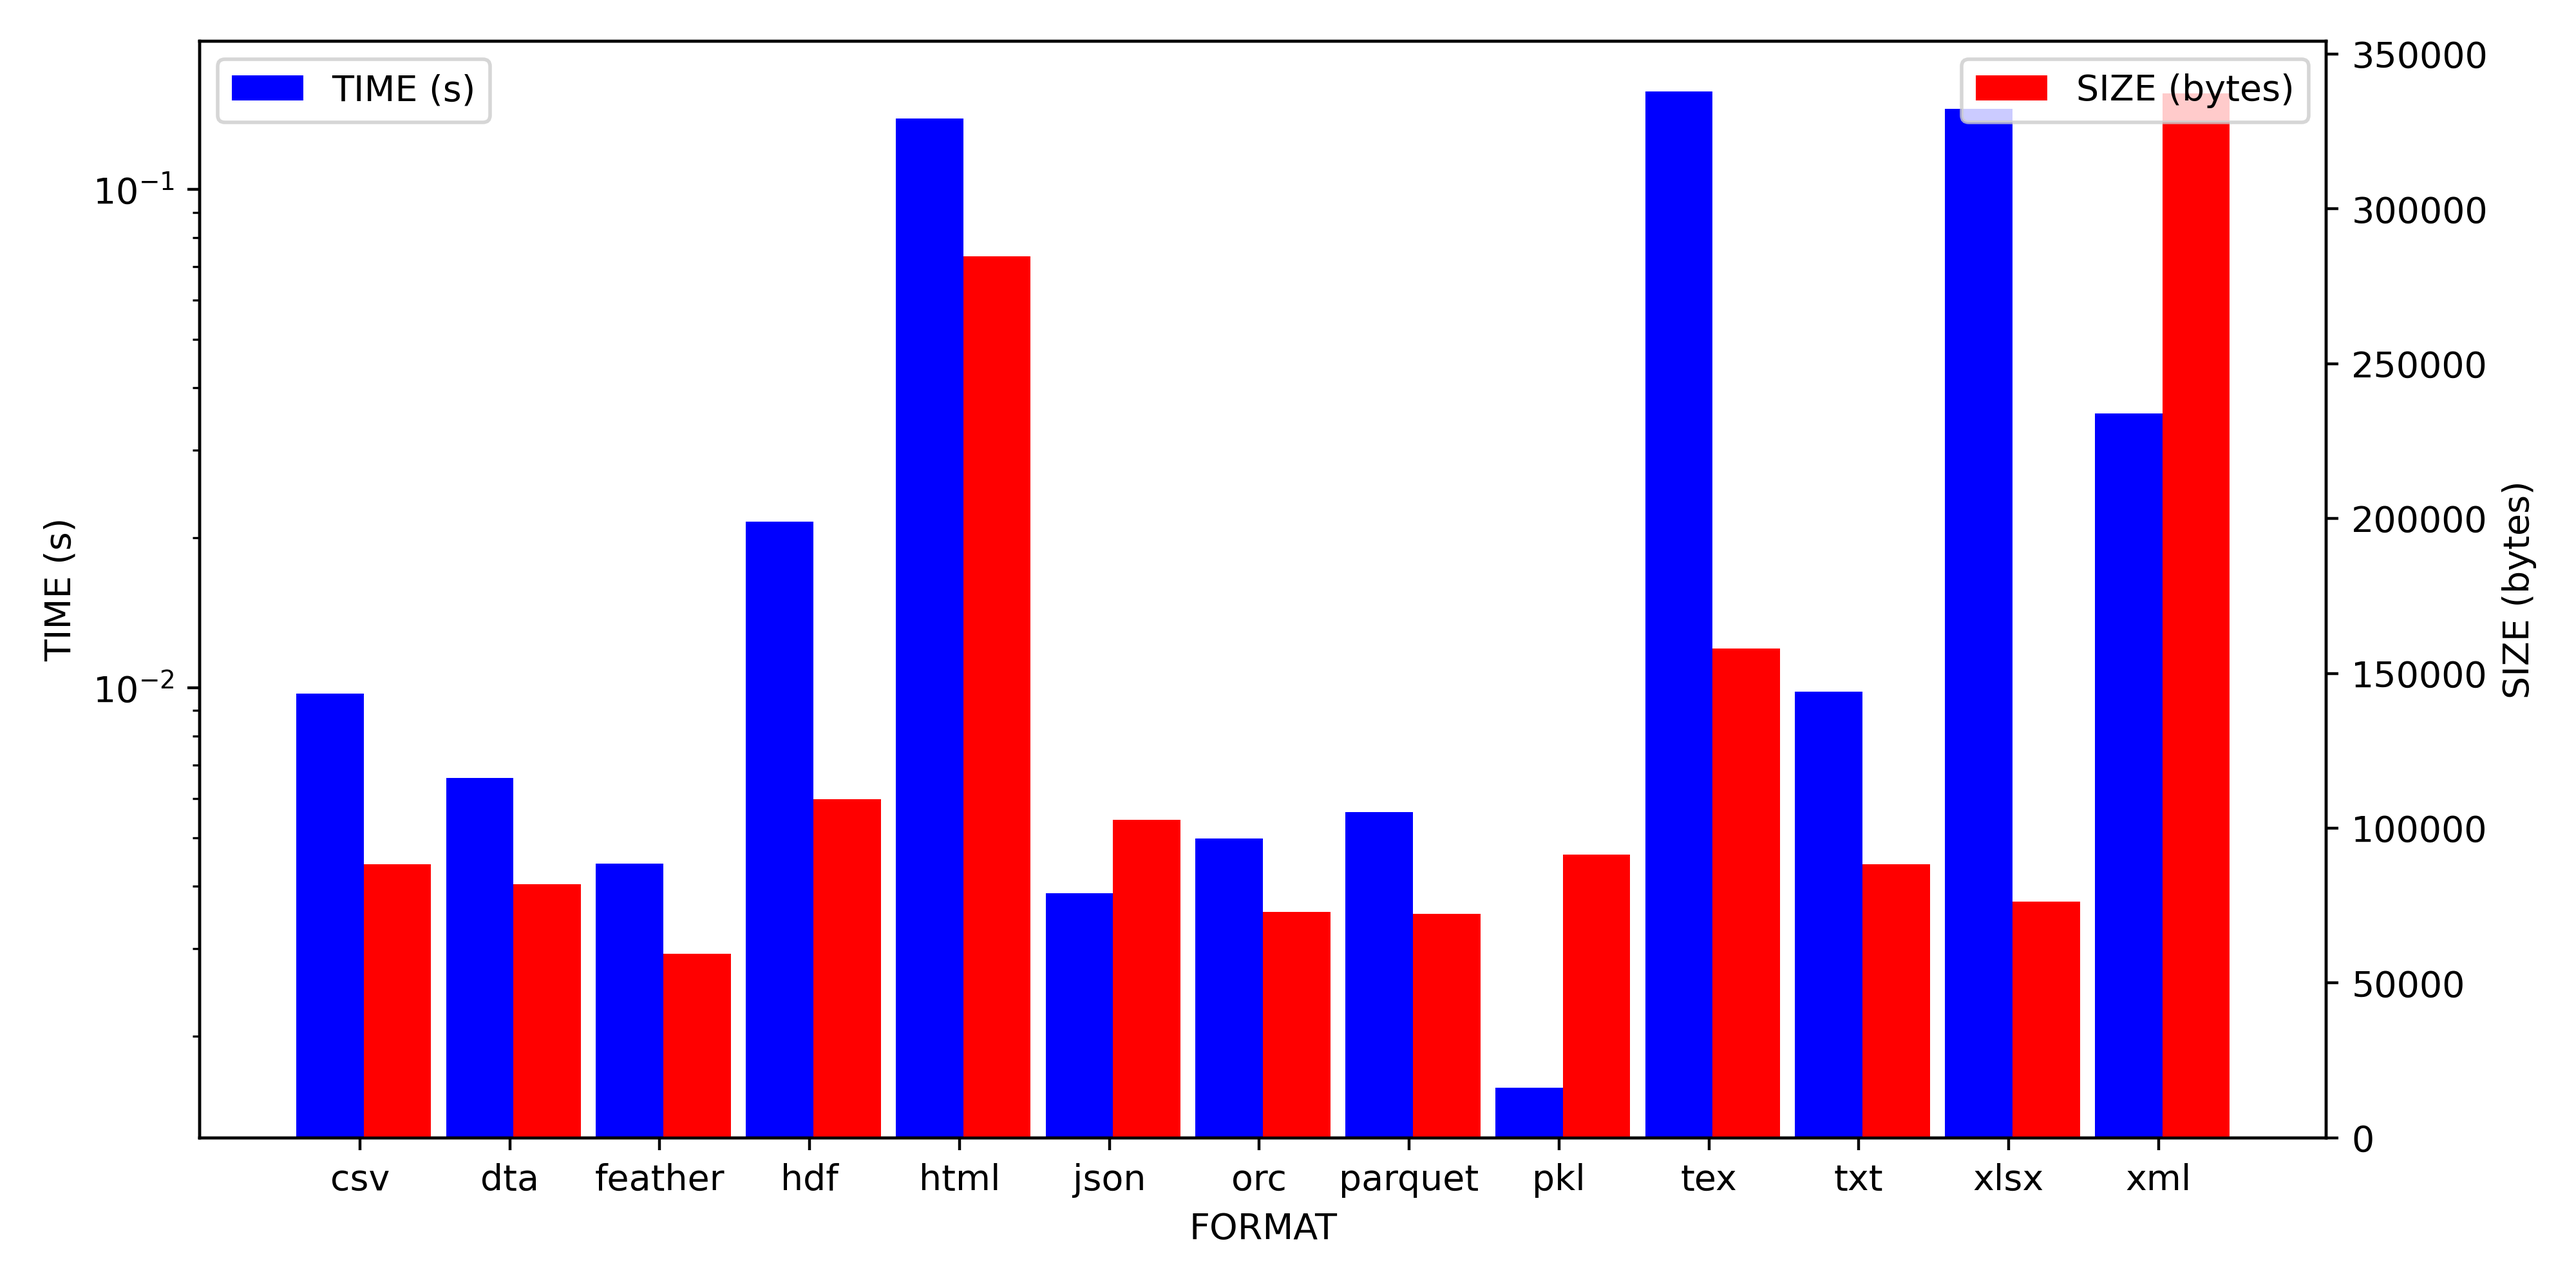
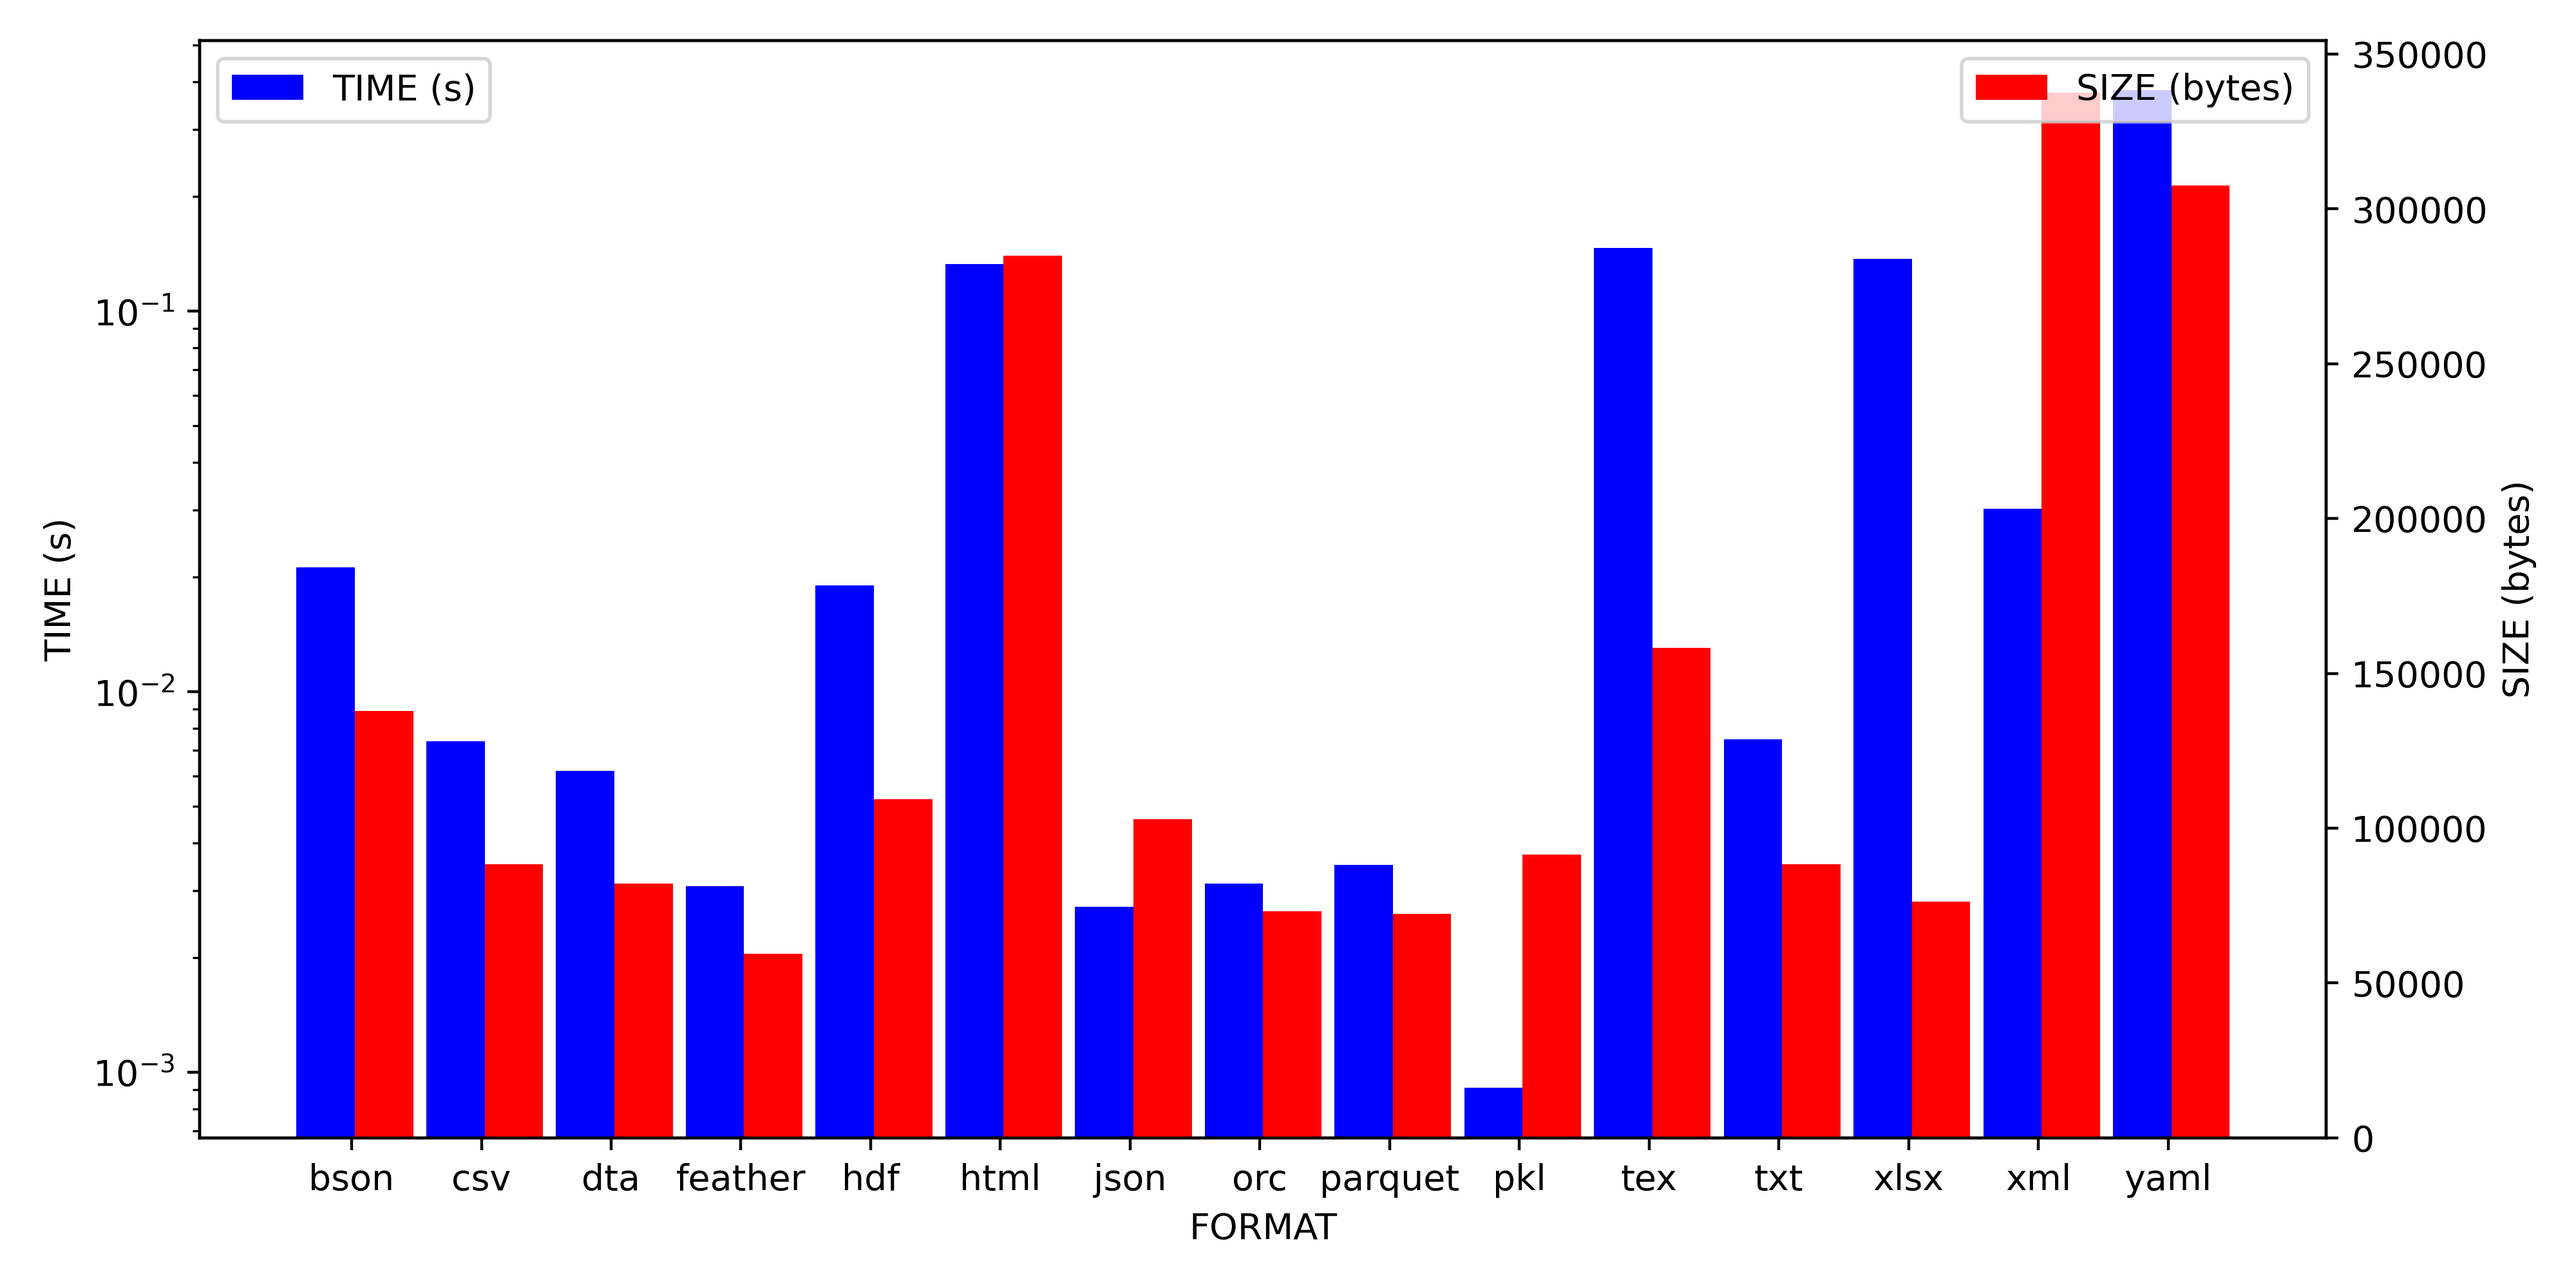
new formats

diff --git a/data_processor.py b/data_processor.py
@@ -8,7 +8,8 @@ import timeit
 import os
 import matplotlib.pyplot as plt
 import numpy as np
-
+import yaml
+import bson
 
 class processor:
     """
@@ -57,7 +58,8 @@ class processor:
 
     def benchmark(self) -> list[(str, float, float)]:
         benchmark_results = list[(str, float, float)]()
-        for f in dir(self):
+        for i,f in enumerate(dir(self)):
+            print(f"Progress : {i}/{len(dir(self))}% benchmarking {f}")
             if "write_to" in f and callable(getattr(self, f)):
                 splitted = f.removeprefix("write_to_").split("_")
                 fileformat = splitted[0]
@@ -135,6 +137,12 @@ class processor:
     def write_to_pkl(self) -> None:
         self.data.to_pickle(f"{self.SYMBOL}.pkl")
 
+    def write_to_yaml(self) -> None:
+        yaml.dump(self.data.to_dict(), open(f"{self.SYMBOL}.yaml", "w"))
+
+    def write_to_bson(self) -> None:
+        with open(f"{self.SYMBOL}.bson", "wb") as f:
+            f.write(bson.dumps(self.data.to_dict()))
 
 def make_graph(benchmark_results: list[(str, float, float)]) -> plt.Figure:
     """pretty print the benchmark results and show plot

diff --git a/README.md b/README.md
@@ -21,7 +21,7 @@ A graph is stored in the file _SYMBOL.png_. Benchmark results are outputted to c
 
 
 ## Further plans
-* Add more formats to benchmark.
+* Benchmark files should be stored in a seperate directory.
 * As per the assignment, UI for the following features
     * Plot graph in defined time scale.
     * Plot multiple stocks in same time scale.
